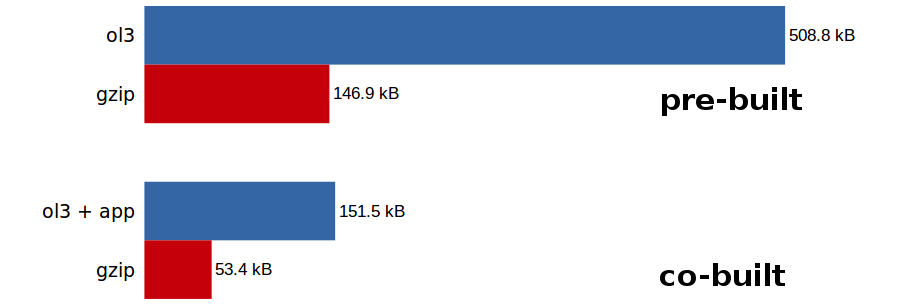
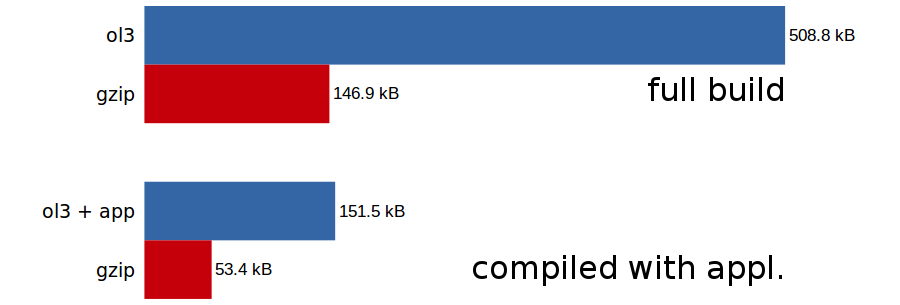
Small changes

Changed region(s): [[0.5289, 0.8262, 0.8711, 0.9443], [0.7156, 0.2361, 0.9022, 0.3836]]

diff --git a/ol3-closure.html b/ol3-closure.html
@@ -132,9 +132,9 @@
             <p>&nbsp;</p>
             <p>&nbsp;</p>
             <div style="display: flex; justify-content: space-between; padding: 10px;" class="fat">
-              <span class="fragment">pre-built<br><span style="font-weight: normal;">(ol.js)</span></span>
-              <span class="fragment">custom-built</span>
-              <span class="fragment">co-built</span>
+              <span class="fragment">full build<br><span style="font-weight: normal;">(ol.js)</span></span>
+              <span class="fragment">custom build</span>
+              <span class="fragment">compiled<br>with<br>application</span>
             </div>
             <p>&nbsp;</p>
           </div>
@@ -374,10 +374,10 @@ app.Point.prototype.distanceTo = function(other) { ... };</code></pre>
 
         <section>
           <h1 class="beefy">JSDoc Tags: A selection</h1>
-          <p><code>@const @constructor @deprecated @dict @enum @export</code></p>
-          <p><code>@extends @final @implements @inheritDoc @interface</code></p>
-          <p><code>@nosideeffects @override @package @param @private</code></p>
-          <p><code>@protected @record @return @struct @throws @type ...</code></p>
+          <p><code>@const @constructor @enum @export</code></p>
+          <p><code>@extends @final @implements @interface</code></p>
+          <p><code>@nosideeffects @param @private</code></p>
+          <p><code>@protected @return @throws @type ...</code></p>
           <p>&nbsp;</p>
           <p><a href="https://developers.google.com/closure/compiler/docs/js-for-compiler" target="_blank">Reference</a></p>
           <aside class="notes">
@@ -566,9 +566,7 @@ var map = new ol.Map({
     ],
     "define": ["ol.ENABLE_DOM=false", "ol.ENABLE_WEBGL=false"],
     "compilation_level": "ADVANCED",
-    "warning_level": "VERBOSE",
     "output_wrapper": "(function(){%output%})();",
-    "use_types_for_optimization": true,
     ...
   }
 }</code></pre>
